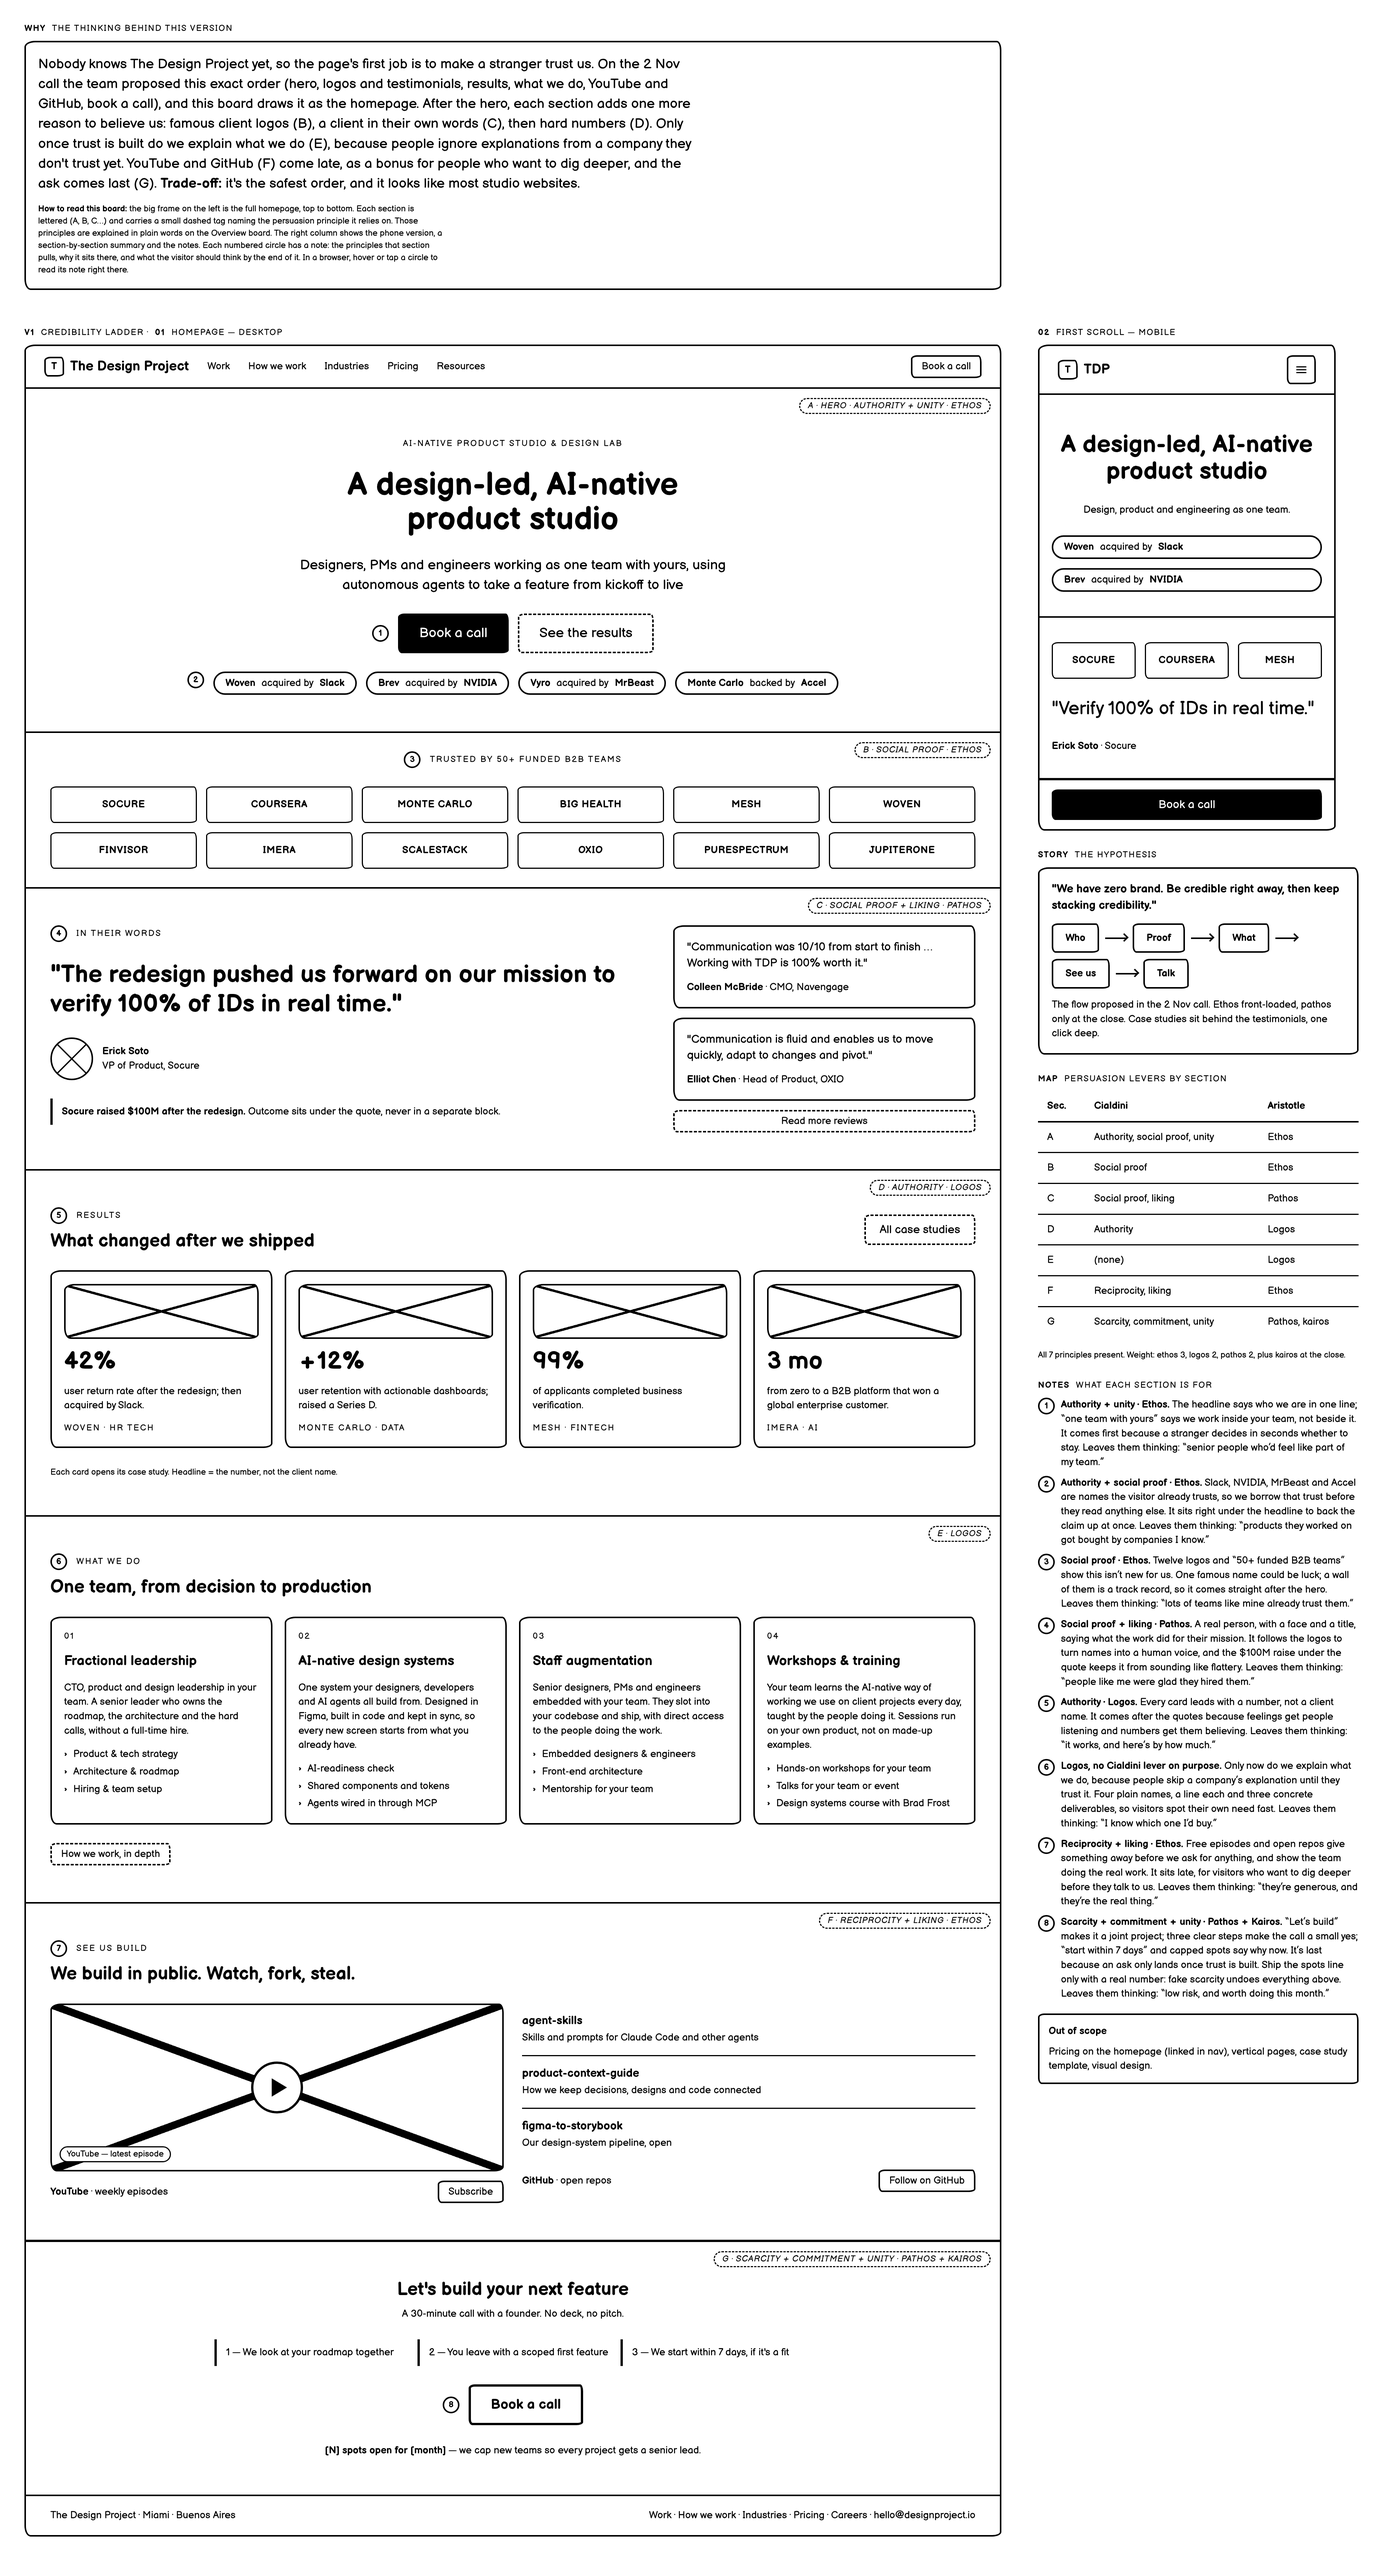
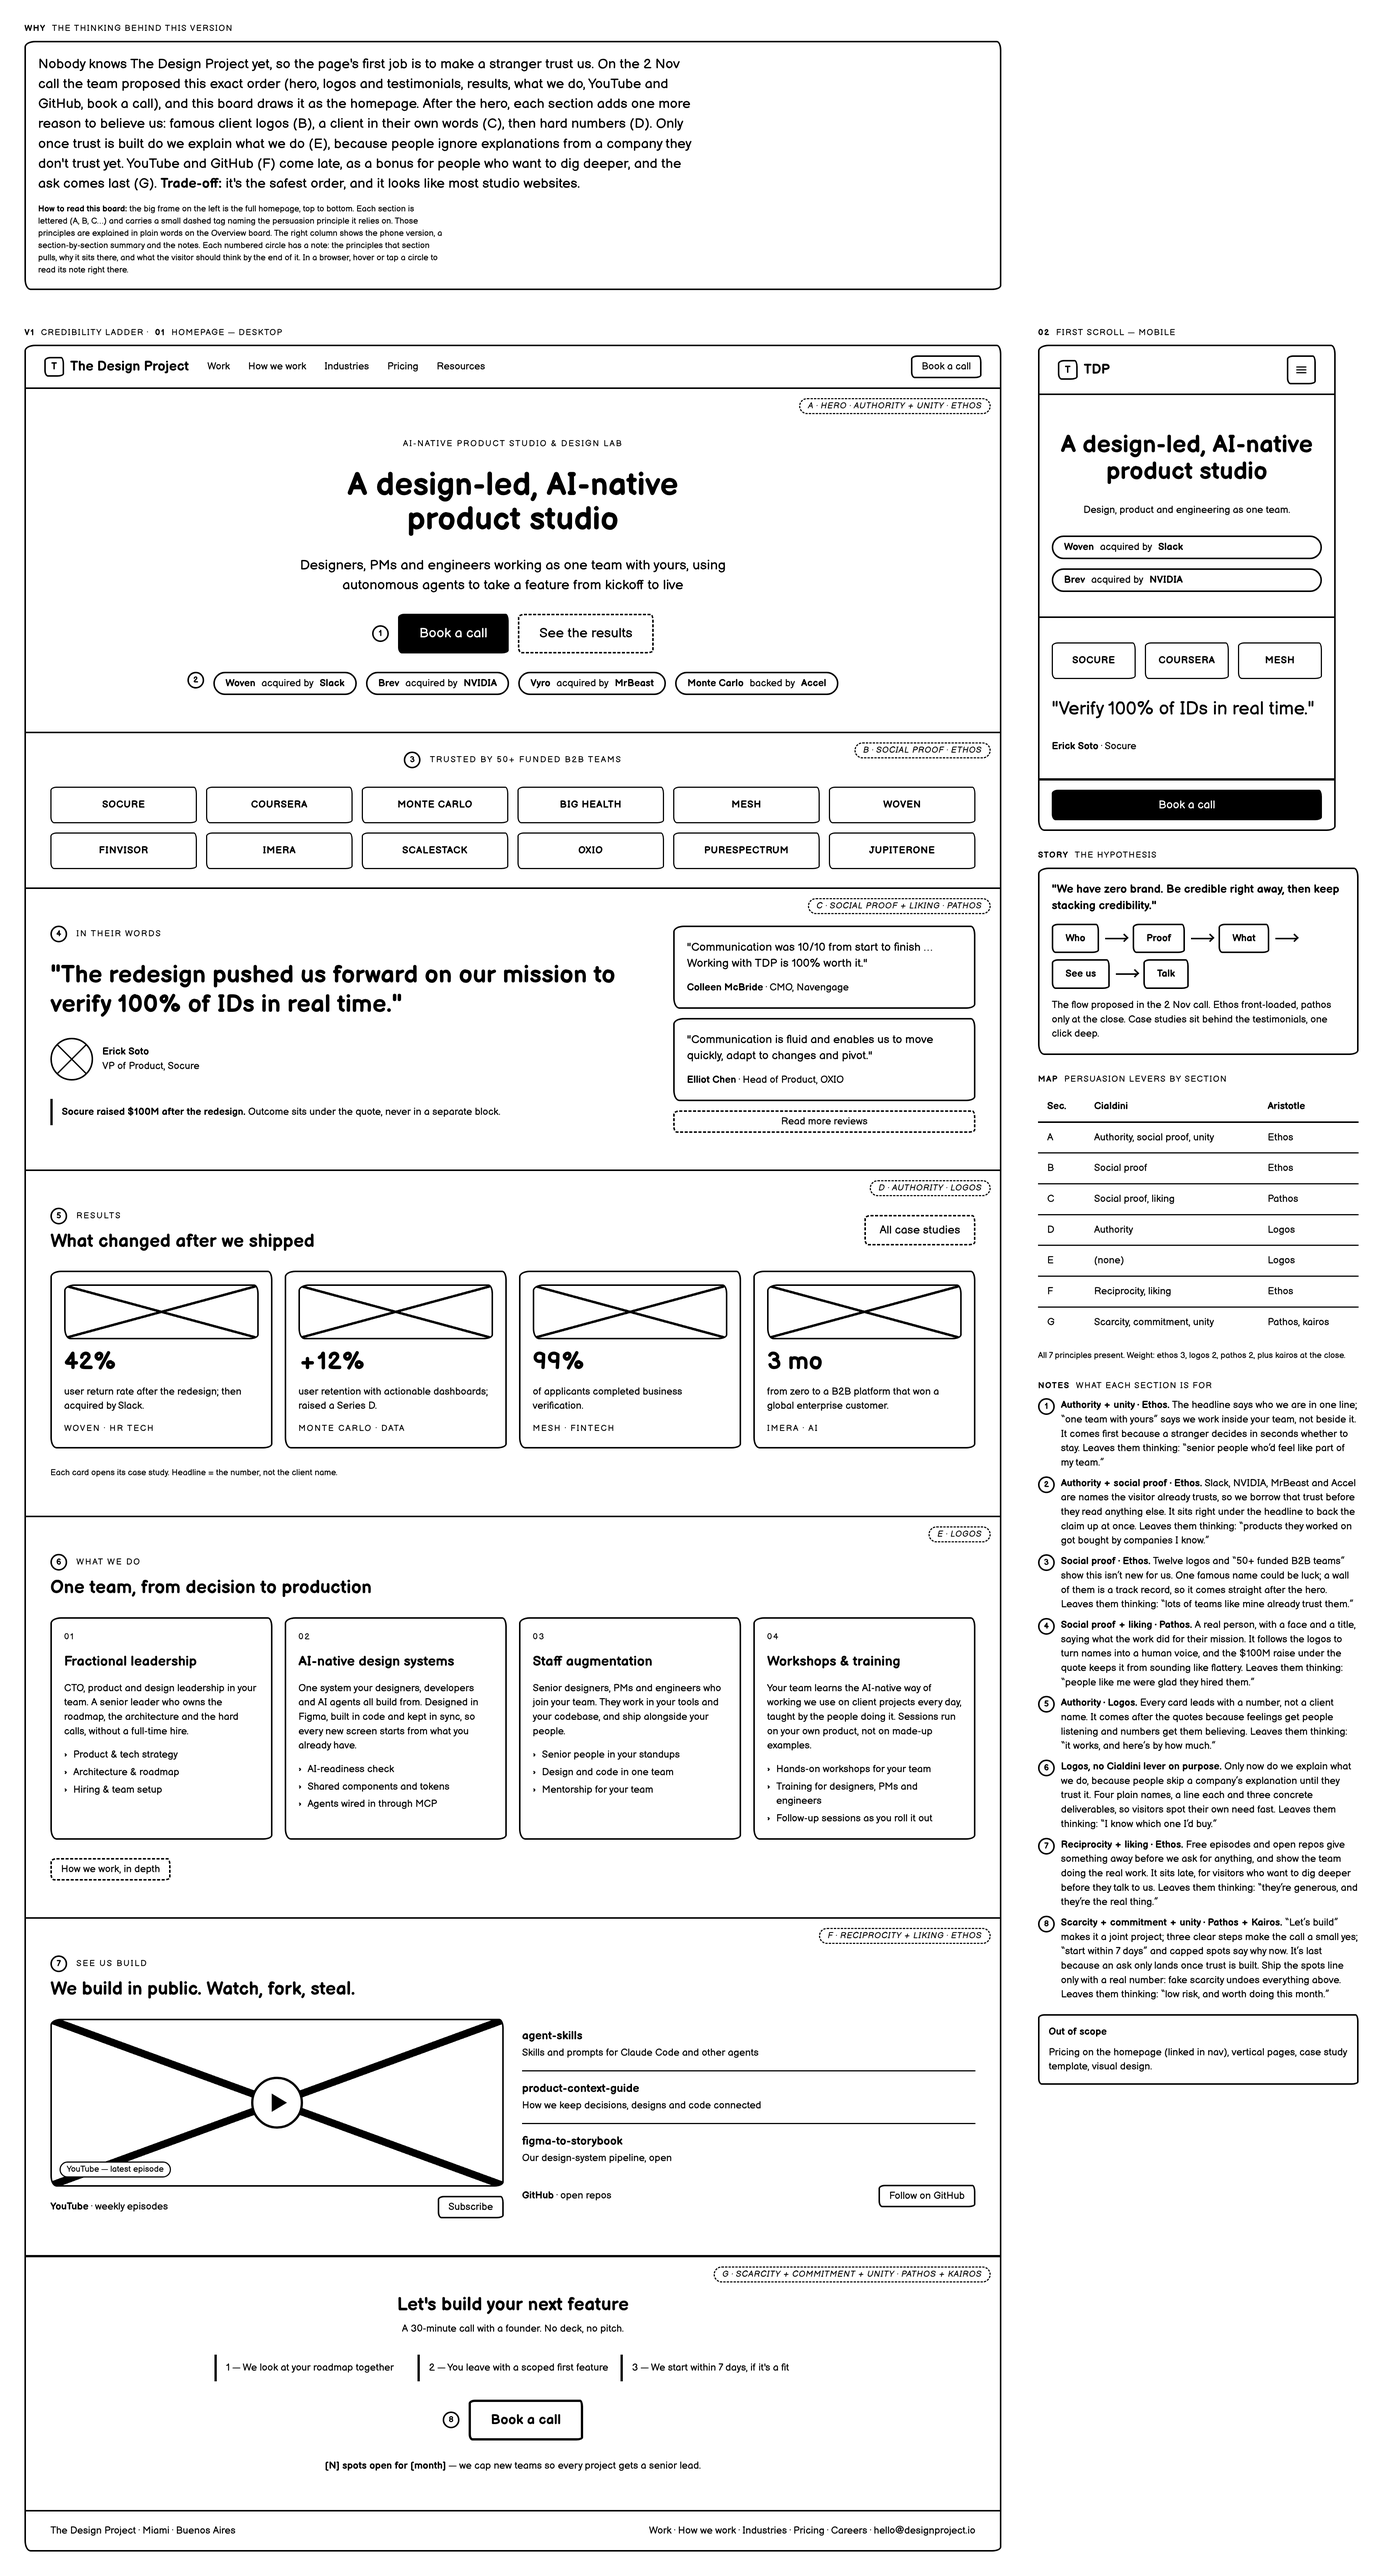
fix(wireframes): remove Southleft's course and wording from V1 services
The reference screenshot was Southleft's services section. Card 04 claimed
their AI & design systems course with Brad Frost as ours; it's gone. Card 03
drops the phrasing lifted from the same source.

diff --git a/wireframes/designproject-io/v1-credibility-ladder.standalone.html b/wireframes/designproject-io/v1-credibility-ladder.standalone.html
@@ -882,10 +882,10 @@ small { font-size: var(--fs-xs); }
           <article class="card stack">
             <p class="eyebrow">03</p>
             <h3>Staff augmentation</h3>
-            <p class="muted">Senior designers, PMs and engineers embedded with your team. They slot into your codebase and ship, with direct access to the people doing the work.</p>
+            <p class="muted">Senior designers, PMs and engineers who join your team. They work in your tools and your codebase, and ship alongside your people.</p>
             <ul class="bullets">
-              <li>Embedded designers &amp; engineers</li>
-              <li>Front-end architecture</li>
+              <li>Senior people in your standups</li>
+              <li>Design and code in one team</li>
               <li>Mentorship for your team</li>
             </ul>
           </article>
@@ -895,8 +895,8 @@ small { font-size: var(--fs-xs); }
             <p class="muted">Your team learns the AI-native way of working we use on client projects every day, taught by the people doing it. Sessions run on your own product, not on made-up examples.</p>
             <ul class="bullets">
               <li>Hands-on workshops for your team</li>
-              <li>Talks for your team or event</li>
-              <li>Design systems course with Brad Frost</li>
+              <li>Training for designers, PMs and engineers</li>
+              <li>Follow-up sessions as you roll it out</li>
             </ul>
           </article>
         </div>

diff --git a/wireframes/designproject-io/v1-credibility-ladder.html b/wireframes/designproject-io/v1-credibility-ladder.html
@@ -167,10 +167,10 @@
           <article class="card stack">
             <p class="eyebrow">03</p>
             <h3>Staff augmentation</h3>
-            <p class="muted">Senior designers, PMs and engineers embedded with your team. They slot into your codebase and ship, with direct access to the people doing the work.</p>
+            <p class="muted">Senior designers, PMs and engineers who join your team. They work in your tools and your codebase, and ship alongside your people.</p>
             <ul class="bullets">
-              <li>Embedded designers &amp; engineers</li>
-              <li>Front-end architecture</li>
+              <li>Senior people in your standups</li>
+              <li>Design and code in one team</li>
               <li>Mentorship for your team</li>
             </ul>
           </article>
@@ -180,8 +180,8 @@
             <p class="muted">Your team learns the AI-native way of working we use on client projects every day, taught by the people doing it. Sessions run on your own product, not on made-up examples.</p>
             <ul class="bullets">
               <li>Hands-on workshops for your team</li>
-              <li>Talks for your team or event</li>
-              <li>Design systems course with Brad Frost</li>
+              <li>Training for designers, PMs and engineers</li>
+              <li>Follow-up sessions as you roll it out</li>
             </ul>
           </article>
         </div>
